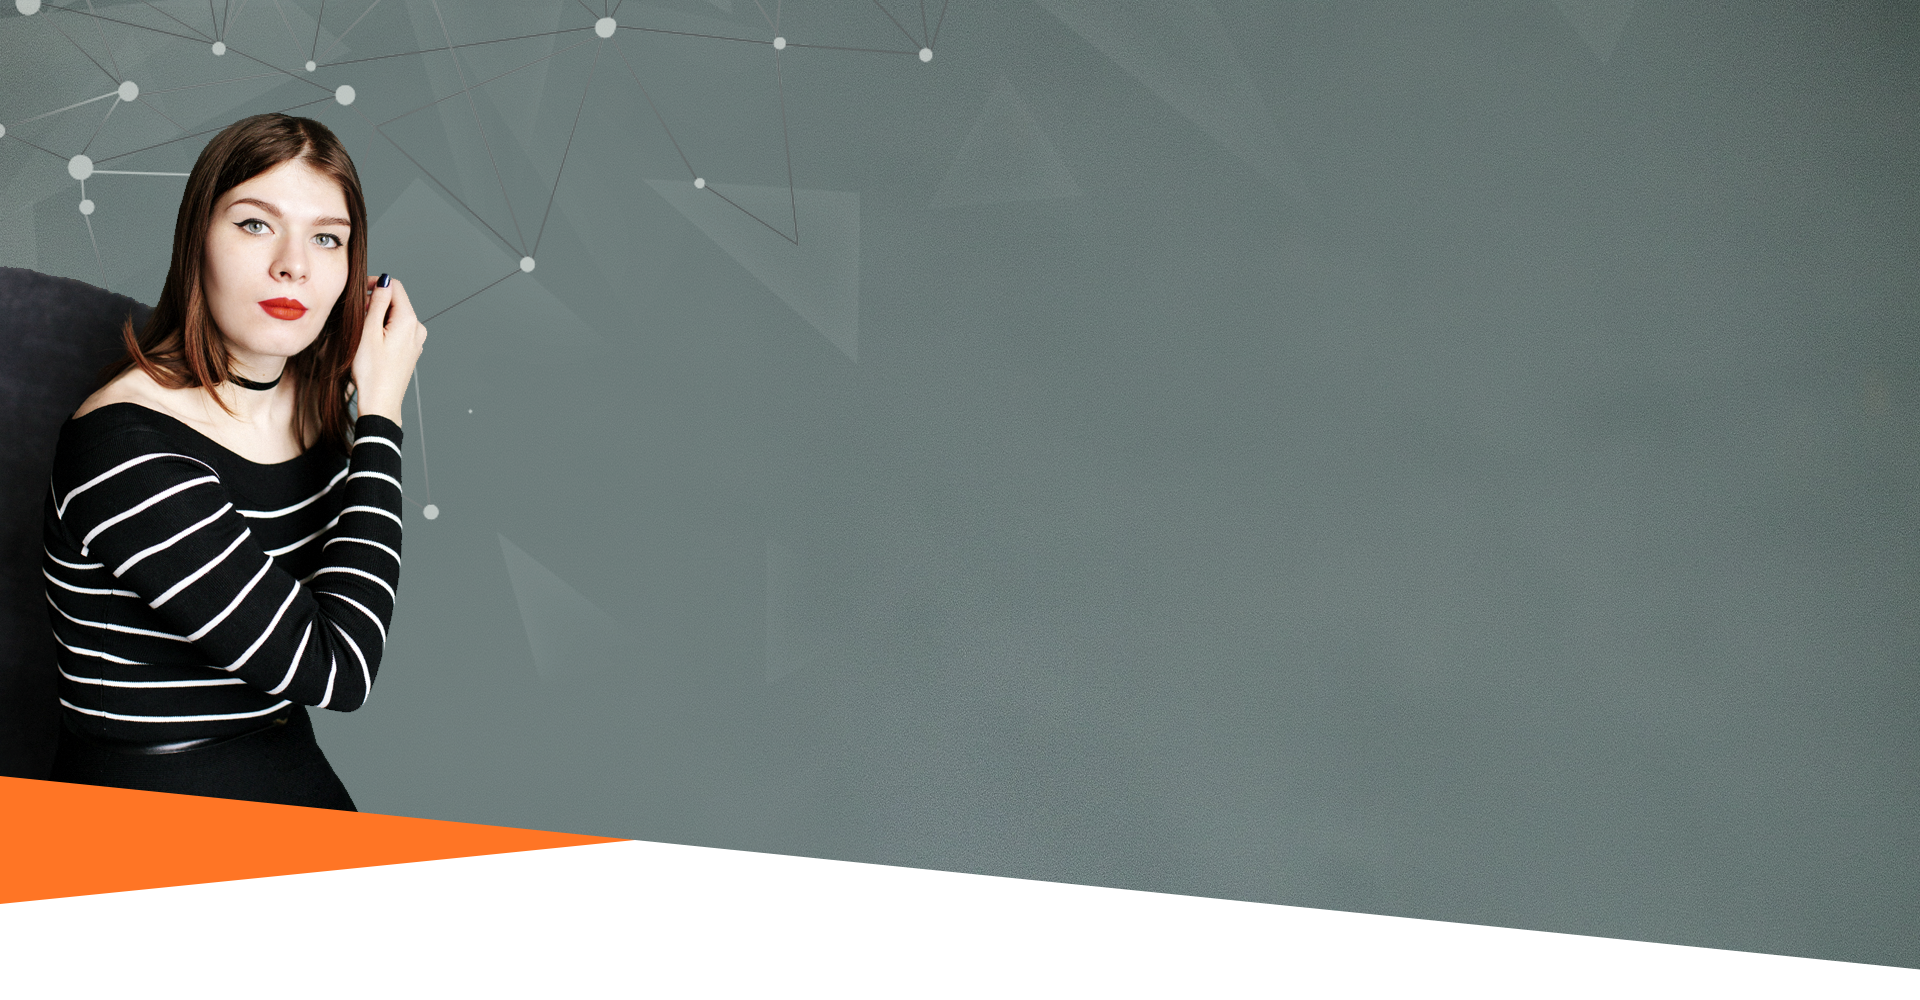
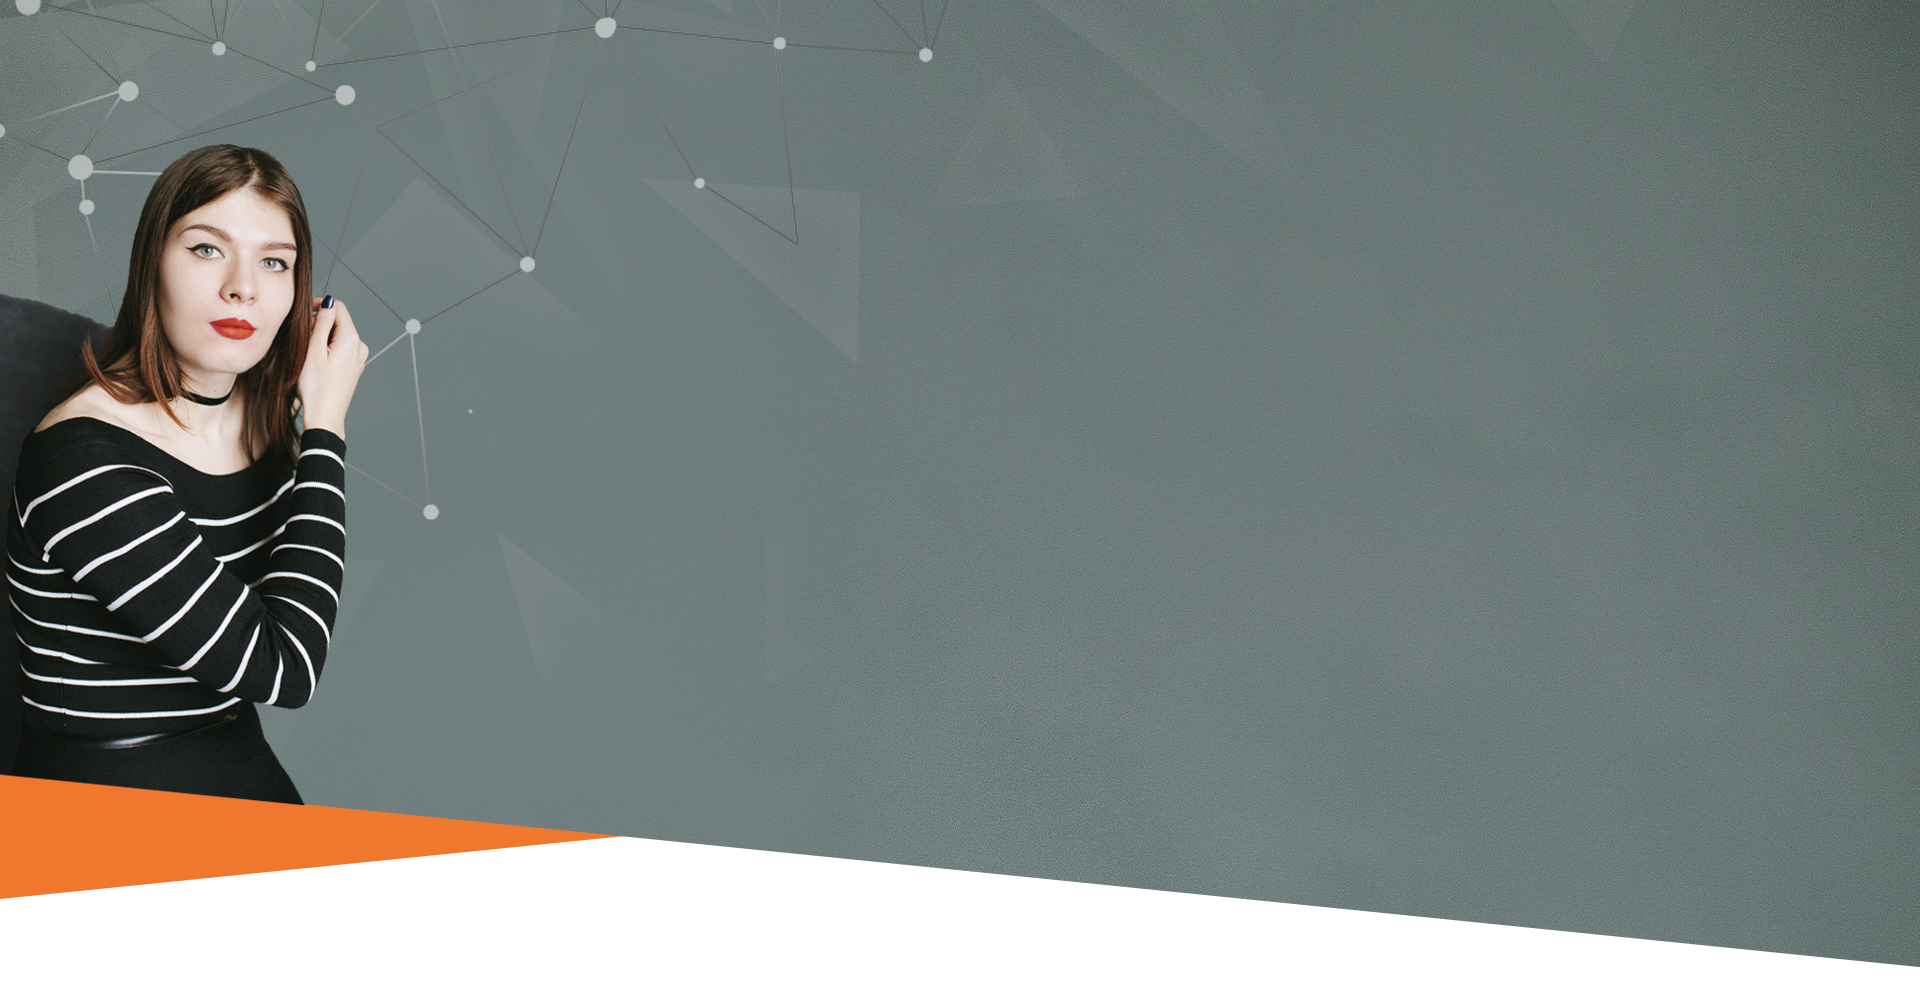
29

diff --git a/karcreative/prod/index.html b/karcreative/prod/index.html
@@ -148,21 +148,80 @@
   <div class="row">
       <div class="col-md-12 row_title">ПОРТФОЛИО</div>
   </div>
-  <div class="row portfolio_row">
-  <div class="col-lg-4"><img class="img-fluid" src="./img/portfolio_1.png" alt="portfolio_1"></div>
-  <div class="col-lg-4"><img class="img-fluid" src="./img/portfolio_1.png" alt="portfolio_1"></div>
-  <div class="col-lg-4"><img class="img-fluid" src="./img/portfolio_1.png" alt="portfolio_1"></div>
-
+  <div class="row portfolio_row justify-content-center">
+    <div class="col-lg-4 col-md-6 col-sm-8 col-10 portfolio_item">
+      <img class="portfolio_img" src="./img/portfolio_1.png" alt="portfolio_img">
+      <div class="portfolio_hover">Перейти на сайт</div>
+    </div>
+    <div class="col-lg-4 col-md-6 col-sm-8 col-10 portfolio_item">
+      <img class="portfolio_img" src="./img/portfolio_2.png" alt="portfolio_img">
+      <div class="portfolio_hover">Перейти на сайт</div>
+    </div>
+    <div class="col-lg-4 col-md-6 col-sm-8 col-10 portfolio_item">
+      <img class="portfolio_img" src="./img/portfolio_3.png" alt="portfolio_img">
+      <div class="portfolio_hover">Перейти на сайт</div>
+    </div>
+    <div class="col-lg-4 col-md-6 col-sm-8 col-10 portfolio_item">
+      <img class="portfolio_img" src="./img/portfolio_4.png" alt="portfolio_img">
+      <div class="portfolio_hover">Смотреть макет</div>
+    </div>
+    <div class="col-lg-4 col-md-6 col-sm-8 col-10 portfolio_item">
+      <img class="portfolio_img" src="./img/portfolio_5.png" alt="portfolio_img">
+      <div class="portfolio_hover">Смотреть макет</div>
+    </div>
+    <div class="col-lg-4 col-md-6 col-sm-8 col-10 portfolio_item">
+      <img class="portfolio_img" src="./img/portfolio_6.png" alt="portfolio_img">
+      <div class="portfolio_hover">Смотреть макет</div>
+    </div>
+    <div class="col-lg-4 col-md-6 col-sm-8 col-10 portfolio_item">
+      <img class="portfolio_img" src="./img/portfolio_7.png" alt="portfolio_img">
+      <div class="portfolio_hover">Смотреть макет</div>
+    </div>
+    <div class="col-lg-4 col-md-6 col-sm-8 col-10 portfolio_item">
+      <img class="portfolio_img" src="./img/portfolio_8.png" alt="portfolio_img">
+      <div class="portfolio_hover">Смотреть макет</div>
+    </div>
+    <div class="col-lg-4 col-md-6 col-sm-8 col-10 portfolio_item">
+      <img class="portfolio_img" src="./img/portfolio_9.png" alt="portfolio_img">
+      <div class="portfolio_hover">Смотреть макет</div>
+    </div>
   </div>
 </div>
 
 
 
 
-
-
-
-
+<div class="container-fluid plan_bg">
+<div class="container">
+  <div class="row">
+      <div class="col-md-12 row_title">СХЕМА РАБОТЫ</div>
+  </div>
+  <div class="row plan_row">
+    <div class="col-md-6 vcenter">
+      <img class="img-fluid" src="./img/plan_1.png" alt="plan_1">
+    </div>
+    <div class="col-md-6">
+    <div class="plan_title">Заполнение брифа</div>
+    <div class="plan_text">
+      Чтобы начать работу над вашим проектом, вам
+      необходимо заполнить бриф.<br><br>
+      Бриф призван четко обозначить цели и задачи проекта,
+      а также ответить на три главных вопроса: что, для кого
+      и как нужно делать.<br><br>
+      От его верно заполнения зависит то, как быстро и
+      верно я пойму требования к будущему сайту.<br><br>
+    </div>
+  </div>
+  </div>
+  <div class="row">
+    <div class="col-lg-5 col-md-3"></div>
+    <div class="col-lg-7 col-md-9 vcenter">
+      <div class="plan_number">01/05</div>
+      <div class="plan_number_text">следующий этап</div><img src="./img/plan_arrow.png" alt="plan_arrow">
+    </div>
+  </div>
+</div>
+</div>
 
 
 </div><!-- #app -->

diff --git a/karcreative/prod/css/style.css b/karcreative/prod/css/style.css
@@ -4,8 +4,8 @@
 
 .main {
   background-image: url(../img/main_bg.png);
-  background-size: cover;
-  background-position: center center; }
+  background-position: center center;
+  background-repeat: no-repeat; }
 
 .menu_row {
   padding-top: 60px; }
@@ -35,7 +35,8 @@
 .call {
   font-family: Roboto;
   font-size: 26px;
-  text-decoration: underline; }
+  text-decoration: underline;
+  cursor: pointer; }
 
 .main_line {
   height: 10px;
@@ -59,13 +60,19 @@
 
 .main_button {
   padding: 20px 40px;
-  background-color: #f0772e;
+  background: linear-gradient(to right, #f0782e, #e55c00);
   border: none;
   border-radius: 30px;
   color: white;
   font-family: Roboto;
   font-size: 24px;
-  font-weight: bold; }
+  font-weight: bold;
+  transition: all 0.3s; }
+  .main_button:hover {
+    filter: brightness(1.2);
+    cursor: pointer; }
+  .main_button:focus {
+    outline: none; }
 
 .main_row {
   padding-bottom: 120px; }
@@ -109,7 +116,8 @@
 
 .about {
   background-image: url(../img/about_bg.png);
-  background-size: cover;
+  background-repeat: no-repeat;
+  background-position: center center;
   padding-top: 200px; }
 
 .about_row {
@@ -143,7 +151,10 @@
   margin: 20px;
   text-align: center;
   color: white;
-  width: 80%; }
+  width: 80%;
+  font-family: Roboto;
+  font-size: 22px;
+  font-style: italic; }
   .buy_input:focus {
     outline: none; }
 
@@ -152,7 +163,69 @@
 
 .portfolio_row {
   padding-top: 60px;
-  padding-bottom: 60px; }
+  padding-bottom: 30px; }
+
+.portfolio_item {
+  padding-bottom: 30px;
+  position: relative; }
+
+.portfolio_img {
+  width: 100%; }
+
+.portfolio_hover {
+  text-align: center;
+  position: absolute;
+  width: 100%;
+  height: 100%;
+  background-color: black;
+  top: 0;
+  left: 0;
+  background-clip: padding-box;
+  border-left: 15px solid transparent;
+  border-right: 15px solid transparent;
+  border-bottom: 30px solid transparent;
+  opacity: 0;
+  transition: all 0.3s;
+  text-align: center;
+  color: white;
+  font-family: Roboto;
+  font-size: 30px;
+  display: flex;
+  justify-content: center;
+  align-items: center;
+  text-decoration: underline;
+  cursor: pointer; }
+  .portfolio_hover:hover {
+    opacity: 0.8; }
+
+.plan_row {
+  padding-top: 60px; }
+
+.plan_title {
+  font-family: Franklin Gothic Demi Cond;
+  font-size: 36px; }
+
+.plan_text {
+  font-family: Roboto;
+  font-size: 22px;
+  line-height: 1.2; }
+
+.plan_bg {
+  background-image: url(../img/about_bg.png);
+  background-repeat: no-repeat;
+  background-position: center center;
+  padding-bottom: 1000px;
+  padding-top: 200px; }
+
+.plan_number {
+  font-family: Franklin Gothic Demi Cond;
+  font-size: 70px;
+  padding-right: 20px; }
+
+.plan_number_text {
+  font-family: Roboto;
+  font-size: 24px;
+  padding-right: 20px; }
 
 @media (max-width: 1500px) {
   .main_img_fluid {

diff --git a/karcreative/src/sass/style.sass b/karcreative/src/sass/style.sass
@@ -5,8 +5,8 @@
 
 .main
   background-image: url(../img/main_bg.png)
-  background-size: cover
   background-position: center center
+  background-repeat: no-repeat
 
 
 .menu_row
@@ -39,6 +39,7 @@
   font-family: Roboto
   font-size: 26px
   text-decoration: underline
+  cursor: pointer
 
 .main_line
   height: 10px
@@ -62,13 +63,19 @@
 
 .main_button
   padding: 20px 40px
-  background-color: #f0772e
+  background: linear-gradient(to right, #f0782e, #e55c00)
   border: none
   border-radius: 30px
   color: white
   font-family: Roboto
   font-size: 24px
   font-weight: bold
+  transition: all 0.3s
+  &:hover
+    filter: brightness(1.2)
+    cursor: pointer
+  &:focus
+    outline: none
 
 .main_row
   padding-bottom: 120px
@@ -113,7 +120,8 @@
 
 .about
   background-image: url(../img/about_bg.png)
-  background-size: cover
+  background-repeat: no-repeat
+  background-position: center center
   padding-top: 200px
 
 .about_row
@@ -148,6 +156,9 @@
   text-align: center
   color: white
   width: 80%
+  font-family: Roboto
+  font-size: 22px
+  font-style: italic
   &:focus
     outline: none
 
@@ -156,9 +167,69 @@
 
 .portfolio_row
   padding-top: 60px
-  padding-bottom: 60px
+  padding-bottom: 30px
 
+.portfolio_item
+  padding-bottom: 30px
+  position: relative
 
+.portfolio_img
+  width: 100%
+
+.portfolio_hover
+  text-align: center
+  position: absolute
+  width: 100%
+  height: 100%
+  background-color: black
+  top: 0
+  left: 0
+  background-clip: padding-box
+  border-left: 15px solid transparent
+  border-right: 15px solid transparent
+  border-bottom: 30px solid transparent
+  opacity: 0
+  transition: all 0.3s
+  text-align: center
+  color: white
+  font-family: Roboto
+  font-size: 30px
+  display: flex
+  justify-content: center
+  align-items: center
+  text-decoration: underline
+  cursor: pointer
+  &:hover
+    opacity: 0.8
+
+.plan_row
+  padding-top: 60px
+
+.plan_title
+  font-family: Franklin Gothic Demi Cond
+  font-size: 36px
+
+.plan_text
+  font-family: Roboto
+  font-size: 22px
+  line-height: 1.2
+
+.plan_bg
+  background-image: url(../img/about_bg.png)
+  background-repeat: no-repeat
+  background-position: center center
+  padding-bottom: 1000px
+  padding-top: 200px
+
+.plan_number
+  font-family: Franklin Gothic Demi Cond
+  font-size: 70px
+  padding-right: 20px
+
+.plan_number_text
+  font-family: Roboto
+  font-size: 24px
+  padding-right: 20px
 
 
 @media (max-width: 1500px)
